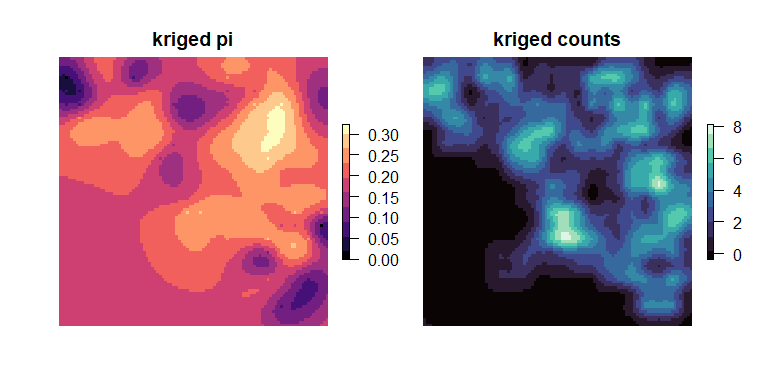
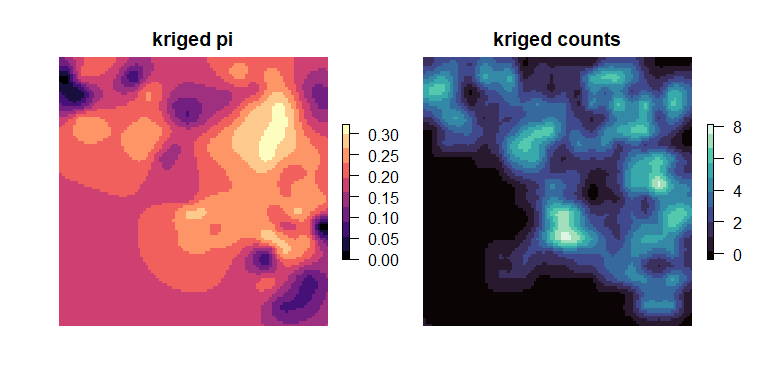
update README

diff --git a/README.md b/README.md
@@ -33,14 +33,15 @@ load_middle_earth_ex()
 ```
 
 
-    ------------- middle earth example -------------
+    -------------- middle earth example --------------
      
     Objects loaded: 
     *lotr_vcf* vcfR object (100 loci x 100 samples) 
     *lotr_coords* dataframe with x and y coordinates 
     *lotr_lyr* middle earth RasterLayer (100 x 100) 
+    *lotr_range* SpatialPolygonsDataFrame of spp range 
 
-    ------------------------------------------------
+    --------------------------------------------------
 
 ``` r
 # Run moving window calculations of pi with rarefaction
@@ -52,9 +53,8 @@ wgd <- window_gd(lotr_vcf,
           fact = 5,
           rarify = TRUE)
 
-
 par(mfrow = c(1,2), oma = rep(1,4), mar = rep(2,4))
-plot_gd(wgd, main = "window pi")
+plot_gd(wgd, bkg = lotr_range, main = "window pi")
 plot_count(wgd, main = "window counts")
 ```
 
@@ -74,13 +74,13 @@ plot_count(kgd_counts, main = "kriged counts")
 
 ``` r
 # Mask results
-mgd_lyr <- mask_gd(kgd, lotr_lyr, minval = 0.01)
+mgd_lyr <- mask_gd(kgd, lotr_range, minval = 0.01)
 mgd_counts <- mask_gd(mgd_lyr, kgd_counts, minval = 2)
 
 # Plot results
 par(mfrow = c(1,2), oma = rep(1,4), mar = rep(2,4))
-plot_gd(mgd_lyr, main = "masked pi (study area)")
-plot_gd(mgd_counts, bkg = mgd_lyr, main = "masked pi (counts + study area)")
+plot_gd(mgd_lyr, main = "masked pi (spp range)")
+plot_gd(mgd_counts, bkg = lotr_range, main = "masked pi (counts + spp range)")
 ```
 
 <img src="man/figures/README-example-3.png" width="100%" />
